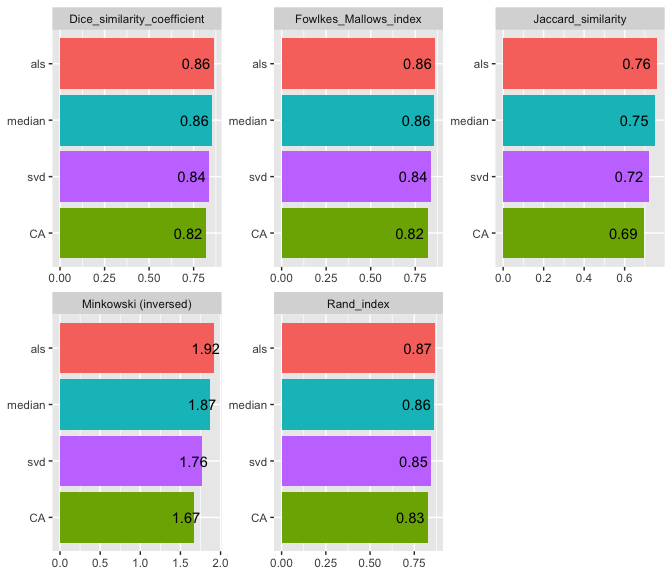
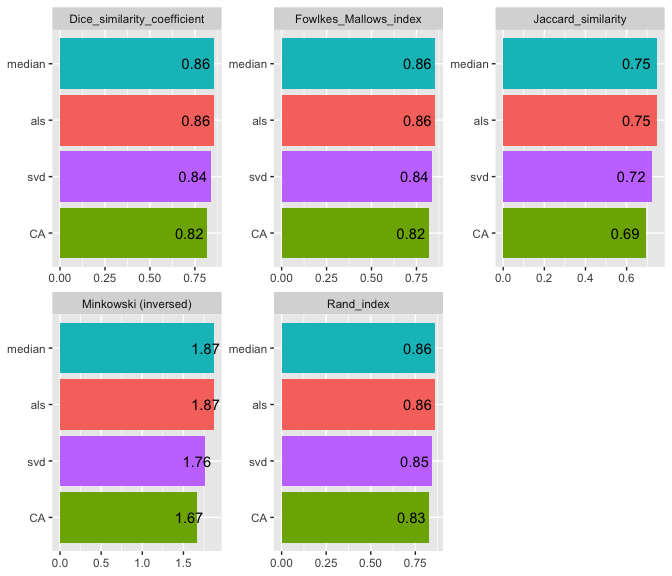
few edit

diff --git a/README.md b/README.md
@@ -76,9 +76,9 @@ plotBipartite(inc_mat = beatAML_incidence_matrix, vertex.label.display = T)
 
 <img src="man/figures/README-plotBipartite-1.png" width="100%" style="display: block; margin: auto;" />
 
-    #> IGRAPH ff6c2a0 UNWB 650 47636 -- 
+    #> IGRAPH 04ae5ff UNWB 650 47636 -- 
     #> + attr: name (v/c), type (v/l), shape (v/c), color (v/c), weight (e/n)
-    #> + edges from ff6c2a0 (vertex names):
+    #> + edges from 04ae5ff (vertex names):
     #>  [1] Alisertib (MLN8237)      --11-00261 Barasertib (AZD1152-HQPA)--11-00261
     #>  [3] Bortezomib (Velcade)     --11-00261 Canertinib (CI-1033)     --11-00261
     #>  [5] Crenolanib               --11-00261 CYT387                   --11-00261
@@ -106,7 +106,7 @@ sub_matrices <- extractSubMatrix(
   print_skim = FALSE
   )
 #> binmatnest2.temperature 
-#>                20.12512 
+#>                20.12294 
 #> Size of Square:   96 rows x  96 columns 
 #> Size of Rectangular_element_max:      87 rows x  140 columns
 ```
@@ -147,7 +147,7 @@ cls <- findCluster(
 
 <img src="man/figures/README-findcluster 1-1.png" width="100%" style="display: block; margin: auto;" />
 
-### Predict edge in bipartite network
+### Predicting edge in bipartite network
 
 The `predictEdge()` function predicts new edges between nominal
 variables’ labels or imputes missing values in the input data matrix
@@ -173,7 +173,7 @@ validatePrediction(imputation = imputations,
 #> |:------|------------------:|---------------------------:|----------:|--------------------:|---------------------:|
 #> |median |          0.7476353|                   0.8555964|  0.8628983|             1.870228|             0.8556407|
 #> |svd    |          0.7224792|                   0.8388829|  0.8458376|             1.763708|             0.8388853|
-#> |als    |          0.7599244|                   0.8635875|  0.8694758|             1.916772|             0.8635900|
+#> |als    |          0.7476353|                   0.8555964|  0.8628983|             1.870228|             0.8556407|
 #> |CA     |          0.6935897|                   0.8190765|  0.8280576|             1.670030|             0.8191111|
 ```
 
@@ -182,12 +182,12 @@ validatePrediction(imputation = imputations,
     #>   imputation_method Jaccard_similarity Dice_similarity_coefficient Rand_index
     #> 1            median          0.7476353                   0.8555964  0.8628983
     #> 2               svd          0.7224792                   0.8388829  0.8458376
-    #> 3               als          0.7599244                   0.8635875  0.8694758
+    #> 3               als          0.7476353                   0.8555964  0.8628983
     #> 4                CA          0.6935897                   0.8190765  0.8280576
     #>   Minkowski (inversed) Fowlkes_Mallows_index
     #> 1             1.870228             0.8556407
     #> 2             1.763708             0.8388853
-    #> 3             1.916772             0.8635900
+    #> 3             1.870228             0.8556407
     #> 4             1.670030             0.8191111
 
 ## License
